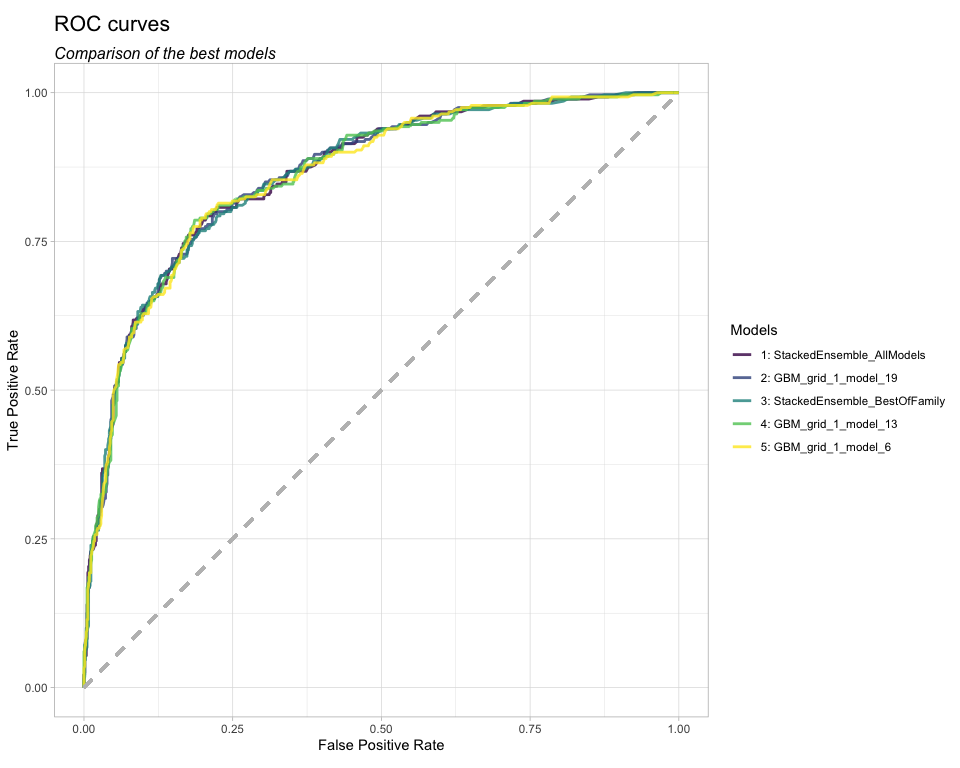
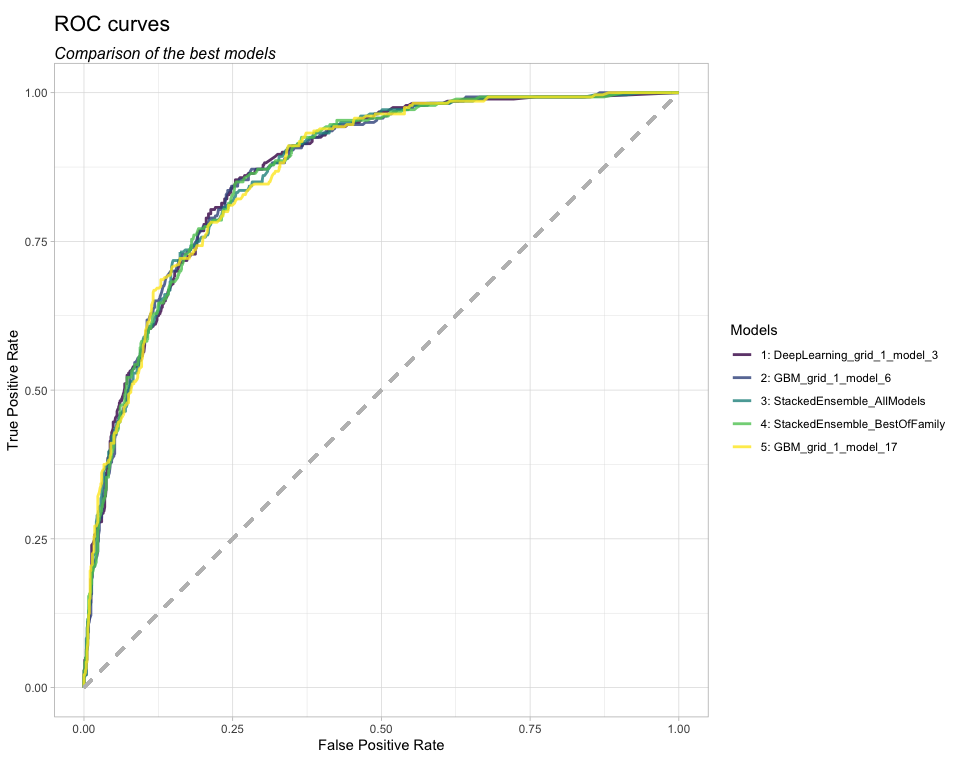
corrected ggplot

Changed region(s): [[0.1875, 0.0938, 0.6875, 0.3438], [0.0625, 0.3438, 0.1875, 0.875], [0.8125, 0.4375, 1.0, 0.5625]]

diff --git a/README.md b/README.md
@@ -32,14 +32,14 @@ h2o.init()
     ##  Connection successful!
     ## 
     ## R is connected to the H2O cluster: 
-    ##     H2O cluster uptime:         4 hours 12 minutes 
+    ##     H2O cluster uptime:         17 minutes 51 seconds 
     ##     H2O cluster timezone:       Europe/Copenhagen 
     ##     H2O data parsing timezone:  UTC 
     ##     H2O cluster version:        3.22.1.1 
     ##     H2O cluster version age:    2 months and 10 days  
-    ##     H2O cluster name:           H2O_started_from_R_peerchristensen_tow661 
+    ##     H2O cluster name:           H2O_started_from_R_peerchristensen_aau630 
     ##     H2O cluster total nodes:    1 
-    ##     H2O cluster total memory:   3.25 GB 
+    ##     H2O cluster total memory:   3.45 GB 
     ##     H2O cluster total cores:    8 
     ##     H2O cluster allowed cores:  8 
     ##     H2O cluster healthy:        TRUE 
@@ -96,18 +96,18 @@ roc_curves(autoML, test_data = test_hf)
 ![](README_files/figure-markdown_github/unnamed-chunk-3-1.png)
 
     ## # A tibble: 2,010 x 7
-    ##    model_id     algorithm      tpr     fpr model_rank model_id1   model_id2
-    ##    <chr>        <chr>        <dbl>   <dbl>      <int> <chr>       <chr>    
-    ##  1 1: StackedE… stackeden… 0       0                1 1: Stacked… _NULL    
-    ##  2 1: StackedE… stackeden… 0       0                1 1: Stacked… _NULL    
-    ##  3 1: StackedE… stackeden… 0.00357 0                1 1: Stacked… _NULL    
-    ##  4 1: StackedE… stackeden… 0.00714 0                1 1: Stacked… _NULL    
-    ##  5 1: StackedE… stackeden… 0.0107  0                1 1: Stacked… _NULL    
-    ##  6 1: StackedE… stackeden… 0.0143  0                1 1: Stacked… _NULL    
-    ##  7 1: StackedE… stackeden… 0.0214  0                1 1: Stacked… _NULL    
-    ##  8 1: StackedE… stackeden… 0.025   0.00129          1 1: Stacked… _NULL    
-    ##  9 1: StackedE… stackeden… 0.0286  0.00129          1 1: Stacked… _NULL    
-    ## 10 1: StackedE… stackeden… 0.0321  0.00129          1 1: Stacked… _NULL    
+    ##    model_id      algorithm     tpr     fpr model_rank model_id1   model_id2
+    ##    <chr>         <chr>       <dbl>   <dbl>      <int> <chr>       <chr>    
+    ##  1 1: DeepLearn… deeplear… 0       0                1 1: DeepLea… _model_3 
+    ##  2 1: DeepLearn… deeplear… 0       0                1 1: DeepLea… _model_3 
+    ##  3 1: DeepLearn… deeplear… 0.00357 0                1 1: DeepLea… _model_3 
+    ##  4 1: DeepLearn… deeplear… 0.00714 0                1 1: DeepLea… _model_3 
+    ##  5 1: DeepLearn… deeplear… 0.0107  0                1 1: DeepLea… _model_3 
+    ##  6 1: DeepLearn… deeplear… 0.0179  0                1 1: DeepLea… _model_3 
+    ##  7 1: DeepLearn… deeplear… 0.0214  0                1 1: DeepLea… _model_3 
+    ##  8 1: DeepLearn… deeplear… 0.025   0                1 1: DeepLea… _model_3 
+    ##  9 1: DeepLearn… deeplear… 0.0286  0                1 1: DeepLea… _model_3 
+    ## 10 1: DeepLearn… deeplear… 0.0321  0.00129          1 1: DeepLea… _model_3 
     ## # … with 2,000 more rows
 
 Bar charts comparing area under the curve (AUC)
@@ -149,14 +149,10 @@ With autoMLviz, you can also plot variable importannce for the best model. `varI
 varImp_plot(autoML)
 ```
 
-    ## [1] "Ensemble model: Plotting Model importance and Variable importances of model with highest importance"
-
-![](README_files/figure-markdown_github/unnamed-chunk-7-1.png)![](README_files/figure-markdown_github/unnamed-chunk-7-2.png)
+![](README_files/figure-markdown_github/unnamed-chunk-7-1.png)
 
 ``` r
 varImp_ggplot(autoML)
 ```
 
-    ## [1] "Ensemble model: Plotting Model importance and Variable importances of model with highest importance"
-
-![](README_files/figure-markdown_github/unnamed-chunk-8-1.png)![](README_files/figure-markdown_github/unnamed-chunk-8-2.png)
+![](README_files/figure-markdown_github/unnamed-chunk-8-1.png)
